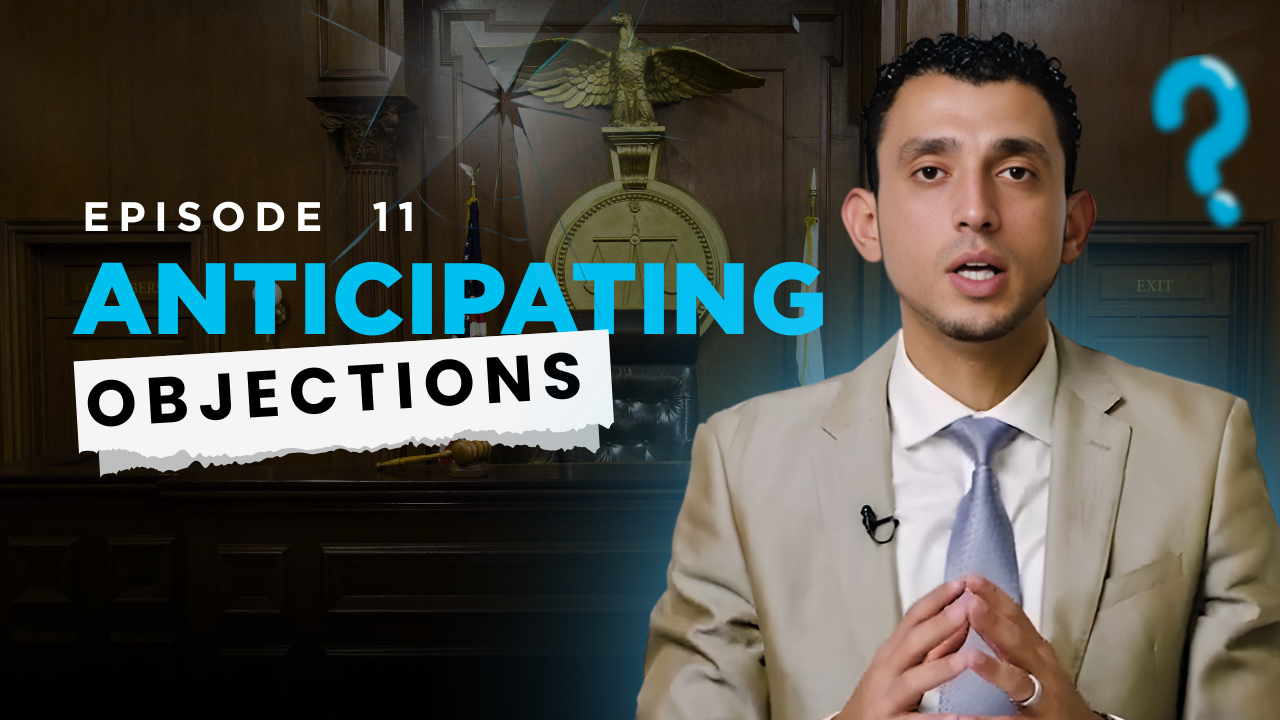
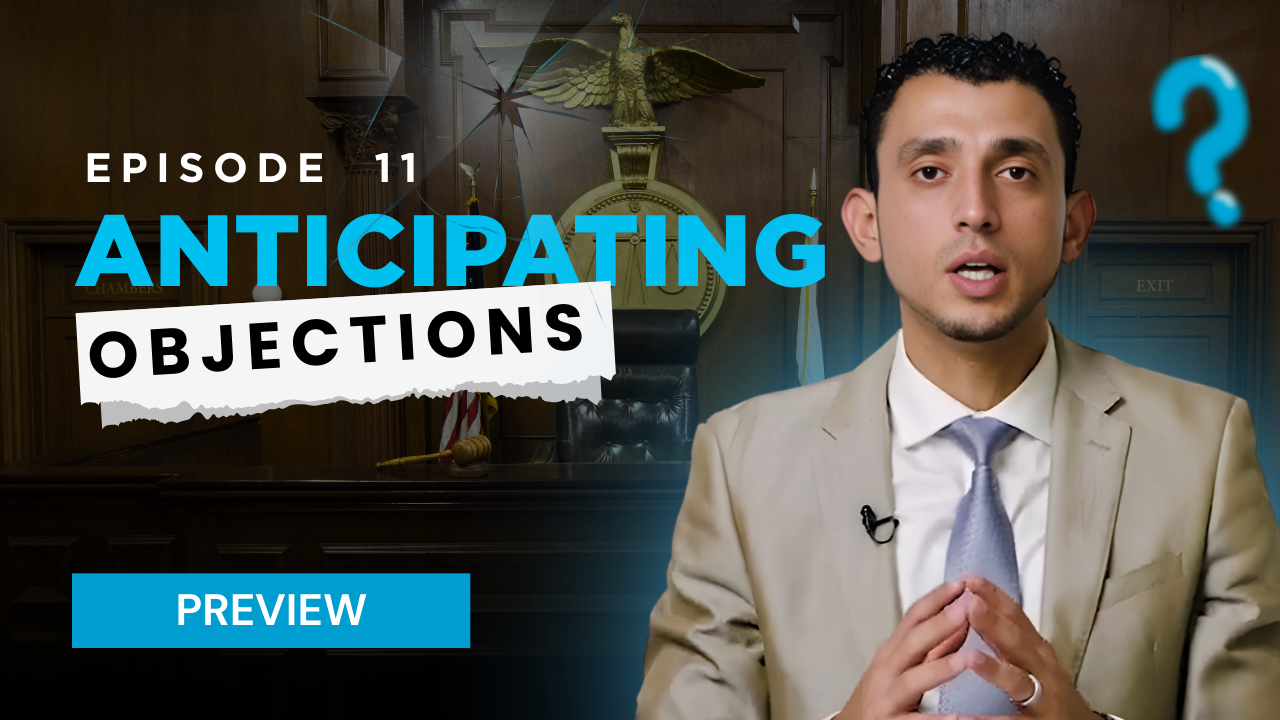
thumbnail changes for the preview videos

Changed region(s): [[0.0312, 0.2139, 0.6562, 0.6722], [0.0312, 0.7944, 0.375, 0.9167], [0.2812, 0.2139, 0.3438, 0.2444]]

diff --git a/masterclass-preview.html b/masterclass-preview.html
@@ -110,16 +110,16 @@
           <button class="preview-lessons__thumb preview-lessons__thumb--ep8 js-preview-video" type="button" aria-label="Play Episode 8" data-video="https://player.vimeo.com/video/EPISODE_8_PLACEHOLDER">
             <span class="preview-lessons__thumb-play"><span class="preview-lessons__play-triangle preview-lessons__play-triangle--sm"></span></span>
           </button>
-          <button class="preview-lessons__thumb preview-lessons__thumb--ep8-part2 js-preview-video" type="button" aria-label="Play Episode 8 Part 2" data-video="https://player.vimeo.com/video/EPISODE_8_PART2_PLACEHOLDER">
-            <span class="preview-lessons__thumb-play"><span class="preview-lessons__play-triangle preview-lessons__play-triangle--sm"></span></span>
-          </button>
           <button class="preview-lessons__thumb preview-lessons__thumb--ep9 js-preview-video" type="button" aria-label="Play Episode 9" data-video="https://player.vimeo.com/video/EPISODE_9_PLACEHOLDER">
             <span class="preview-lessons__thumb-play"><span class="preview-lessons__play-triangle preview-lessons__play-triangle--sm"></span></span>
           </button>
           <button class="preview-lessons__thumb preview-lessons__thumb--ep10 js-preview-video" type="button" aria-label="Play Episode 10" data-video="https://player.vimeo.com/video/EPISODE_10_PLACEHOLDER">
             <span class="preview-lessons__thumb-play"><span class="preview-lessons__play-triangle preview-lessons__play-triangle--sm"></span></span>
           </button>
-          <button class="preview-lessons__thumb preview-lessons__thumb--ep10-part2 js-preview-video" type="button" aria-label="Play Episode 10 Part 2" data-video="https://player.vimeo.com/video/EPISODE_10_PART2_PLACEHOLDER">
+          <button class="preview-lessons__thumb preview-lessons__thumb--ep11 js-preview-video" type="button" aria-label="Play Episode 11" data-video="https://player.vimeo.com/video/EPISODE_11_PLACEHOLDER">
+            <span class="preview-lessons__thumb-play"><span class="preview-lessons__play-triangle preview-lessons__play-triangle--sm"></span></span>
+          </button>
+          <button class="preview-lessons__thumb preview-lessons__thumb--ep12 js-preview-video" type="button" aria-label="Play Episode 12" data-video="https://player.vimeo.com/video/EPISODE_12_PLACEHOLDER">
             <span class="preview-lessons__thumb-play"><span class="preview-lessons__play-triangle preview-lessons__play-triangle--sm"></span></span>
           </button>
         </div>

diff --git a/index.html b/index.html
@@ -136,11 +136,6 @@
               <span class="preview-lessons__play-triangle preview-lessons__play-triangle--sm"></span>
             </button>
           </article>
-          <article class="home-preview__item home-preview__item--ep8-part2">
-            <button class="home-preview__play js-preview-video" type="button" aria-label="Play Episode 8 Part 2" data-video="https://player.vimeo.com/video/EPISODE_8_PART2_PLACEHOLDER">
-              <span class="preview-lessons__play-triangle preview-lessons__play-triangle--sm"></span>
-            </button>
-          </article>
           <article class="home-preview__item home-preview__item--ep9">
             <button class="home-preview__play js-preview-video" type="button" aria-label="Play Episode 9" data-video="https://player.vimeo.com/video/EPISODE_9_PLACEHOLDER">
               <span class="preview-lessons__play-triangle preview-lessons__play-triangle--sm"></span>
@@ -148,11 +143,6 @@
           </article>
           <article class="home-preview__item home-preview__item--ep10">
             <button class="home-preview__play js-preview-video" type="button" aria-label="Play Episode 10" data-video="https://player.vimeo.com/video/EPISODE_10_PLACEHOLDER">
-              <span class="preview-lessons__play-triangle preview-lessons__play-triangle--sm"></span>
-            </button>
-          </article>
-          <article class="home-preview__item home-preview__item--ep10-part2">
-            <button class="home-preview__play js-preview-video" type="button" aria-label="Play Episode 10 Part 2" data-video="https://player.vimeo.com/video/EPISODE_10_PART2_PLACEHOLDER">
               <span class="preview-lessons__play-triangle preview-lessons__play-triangle--sm"></span>
             </button>
           </article>

diff --git a/assets/css/style.css b/assets/css/style.css
@@ -1073,20 +1073,12 @@ body {
   background-image: url('../images/ep8.png');
 }
 
-.home-preview__item--ep8-part2 {
-  background-image: url('../images/ep8part2.png');
-}
-
 .home-preview__item--ep9 {
   background-image: url('../images/ep9.png');
 }
 
 .home-preview__item--ep10 {
   background-image: url('../images/ep10.png');
-}
-
-.home-preview__item--ep10-part2 {
-  background-image: url('../images/ep10part2.png');
 }
 
 .home-preview__item--ep11 {
@@ -1381,10 +1373,10 @@ body {
 .preview-lessons__thumb--ep6       { background-image: url('../images/ep6.png'); }
 .preview-lessons__thumb--ep7       { background-image: url('../images/ep7.png'); }
 .preview-lessons__thumb--ep8       { background-image: url('../images/ep8.png'); }
-.preview-lessons__thumb--ep8-part2 { background-image: url('../images/ep8part2.png'); }
 .preview-lessons__thumb--ep9       { background-image: url('../images/ep9.png'); }
 .preview-lessons__thumb--ep10      { background-image: url('../images/ep10.png'); }
-.preview-lessons__thumb--ep10-part2{ background-image: url('../images/ep10part2.png'); }
+.preview-lessons__thumb--ep11      { background-image: url('../images/ep11.png'); }
+.preview-lessons__thumb--ep12      { background-image: url('../images/ep12.png'); }
 
 .preview-lessons__pagination {
   display: flex;
